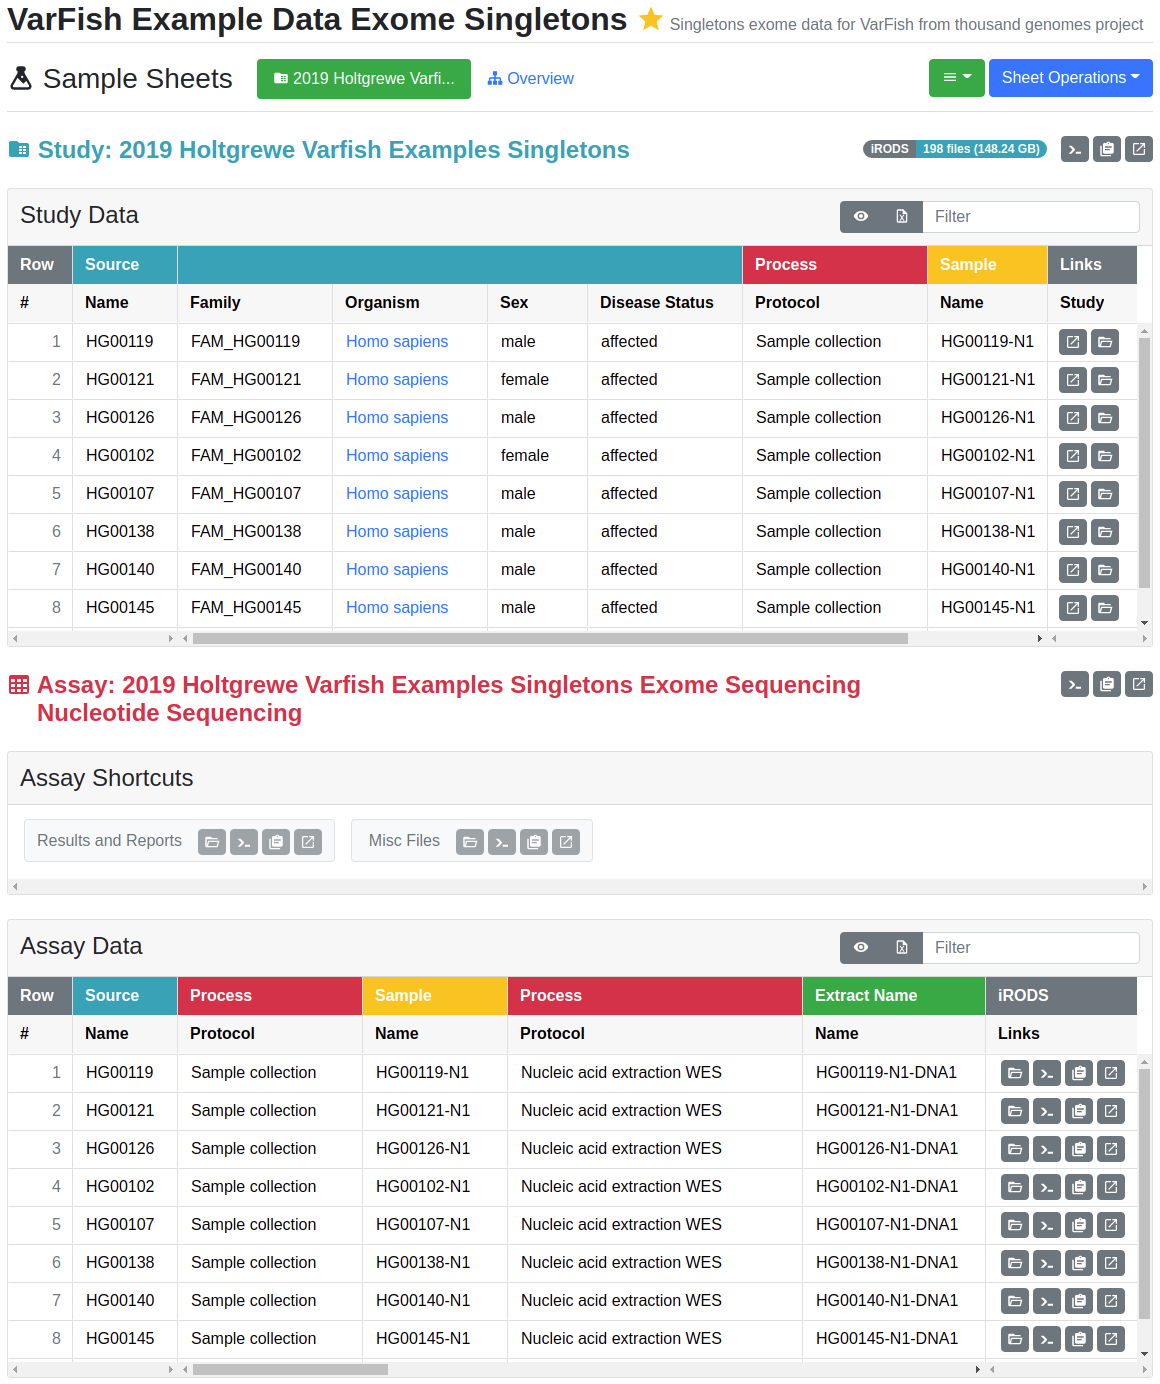
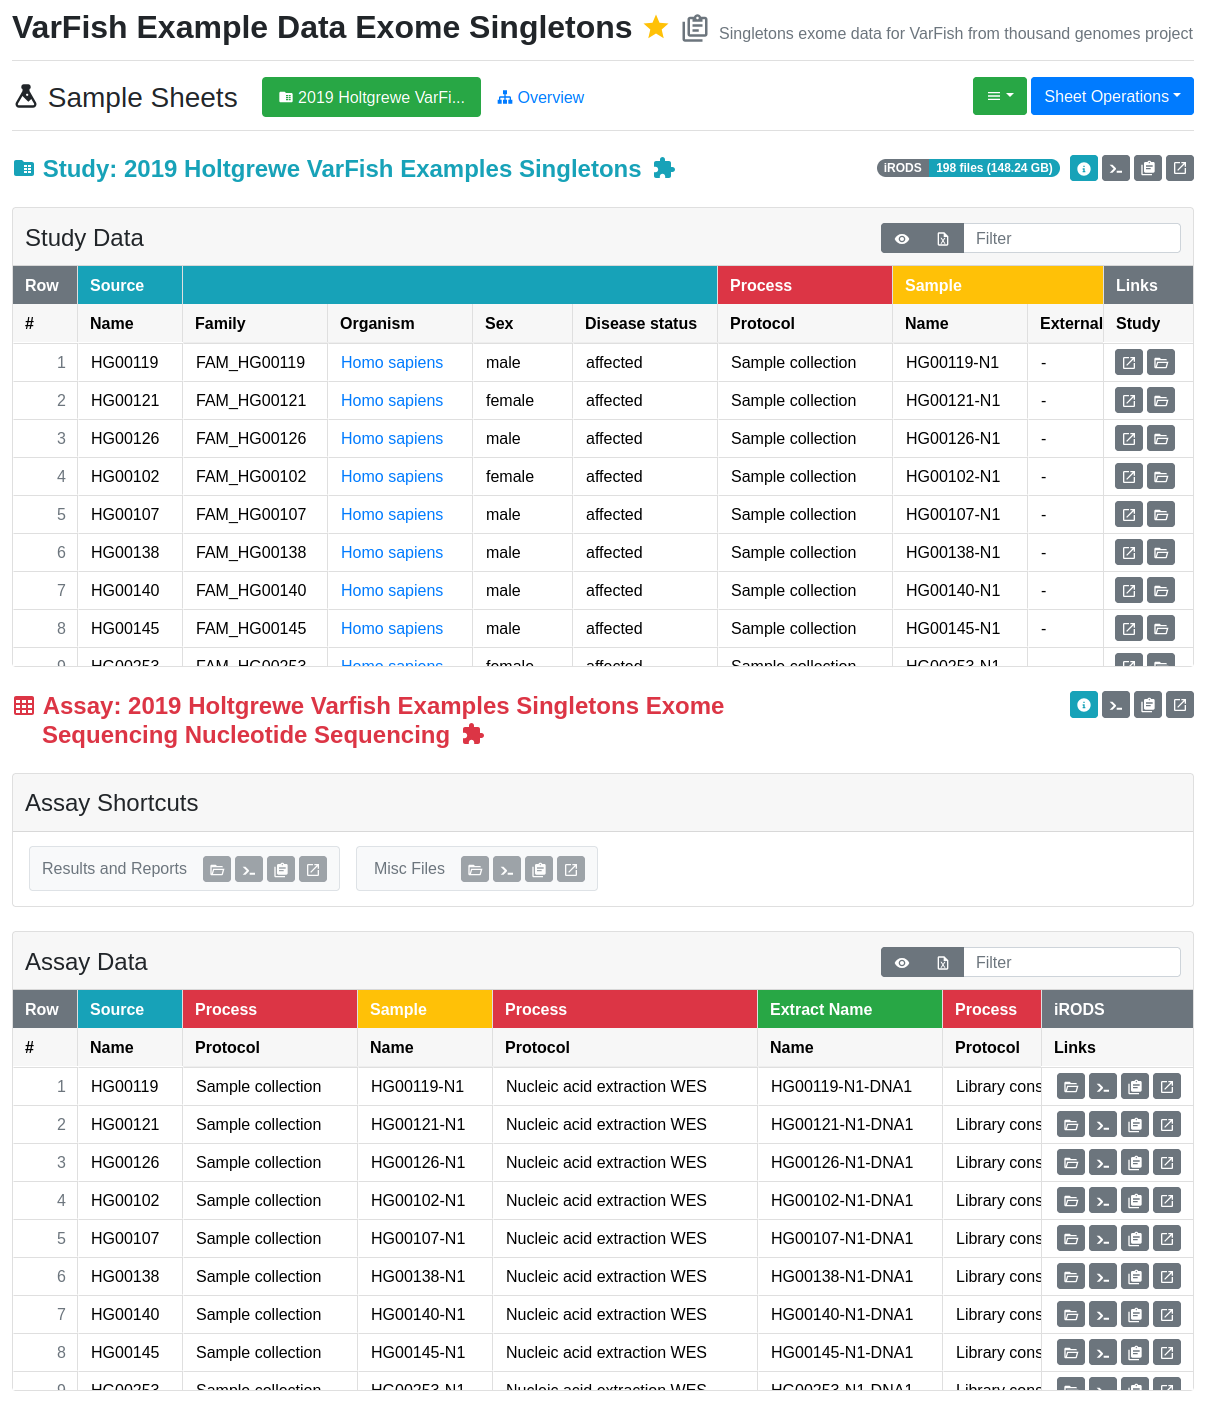
cleanup and prepare v1.2.1 release (#2332)

diff --git a/docs_manual/source/conf.py b/docs_manual/source/conf.py
@@ -26,7 +26,7 @@ copyright = '2018-2025, BIH Core Unit Bioinformatics'
 author = 'BIH Core Unit Bioinformatics'
 
 # The full version, including alpha/beta/rc tags
-release = '1.2.1-WIP'
+release = '1.2.1'
 
 
 # -- General configuration ---------------------------------------------------

diff --git a/docs_manual/source/sodar_release_notes.rst b/docs_manual/source/sodar_release_notes.rst
@@ -8,12 +8,12 @@ list of changes in current and previous releases, see the
 :ref:`full changelog<sodar_changelog>`.
 
 
-v1.2.1 (WIP)
-============
+v1.2.1 (2025-11-21)
+===================
 
 Release for minor updates, maintenance and bug fixes.
 
-- Add landing zone move verification override with site app setting
+- :ref:`Add landing zone move verification override with site app setting <admin_site_app_settings>`
 - Fix landing zone coll_creation field populating
 - Fix landing zone reset Celery task check
 - Upgrade critical dependencies

diff --git a/docs_manual/source/app_samplesheets_browse.rst b/docs_manual/source/app_samplesheets_browse.rst
@@ -25,8 +25,9 @@ they will appear as tabs in the navigation section.
 
 .. figure:: _static/app_samplesheets/sheet_ui.png
     :align: center
+    :scale: 50%
 
-    Sample Sheets default UI
+    Sample Sheets browsing UI
 
 From top to bottom, you will see the following elements:
 

diff --git a/CHANGELOG.rst b/CHANGELOG.rst
@@ -5,8 +5,8 @@ Changelog for the SODAR project. Loosely follows the
 `Keep a Changelog <http://keepachangelog.com/en/1.0.0/>`_ guidelines.
 
 
-Unreleased
-==========
+v1.2.1 (2025-11-21)
+===================
 
 Added
 -----
